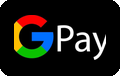
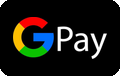
Booking page (test): Visa added, Google Pay mark no longer cropped
Claude-Session: https://claude.ai/code/session_01PDkwSC2D5EtGfg6NzS5EkS

Changed region(s): [[0.1, 0.1842, 0.45, 0.7895], [0.475, 0.3158, 0.9, 0.7895]]

diff --git a/slots/index.html b/slots/index.html
@@ -422,7 +422,7 @@ h3.nm, .nm { color: var(--rc); }
         <a class="go wide off" id="hPay" href="#" aria-disabled="true">PAY</a>
         <p class="hint" id="tNeed">Tick both boxes to pay.</p>
         <button class="x wide" id="hChange" type="button">CHANGE BOOKING</button>
-        <div class="paylogos" aria-label="Pay with Mastercard, PayNow, Apple Pay or Google Pay"><img src="img/pay-mastercard.png" alt="Mastercard" width="40" height="25"><img src="img/pay-paynow.png" alt="PayNow" width="40" height="25"><img src="img/pay-applepay.png" alt="Apple Pay" width="40" height="25"><img src="img/pay-gpay.png" alt="Google Pay" width="40" height="25"></div><p class="hint paywith">Slot released if you go back or time runs out.</p>
+        <div class="paylogos" aria-label="Pay with Visa, Mastercard, PayNow, Apple Pay or Google Pay"><img src="img/pay-visa.png" alt="Visa" width="40" height="25"><img src="img/pay-mastercard.png" alt="Mastercard" width="40" height="25"><img src="img/pay-paynow.png" alt="PayNow" width="40" height="25"><img src="img/pay-applepay.png" alt="Apple Pay" width="40" height="25"><img src="img/pay-gpay.png?v=2" alt="Google Pay" width="40" height="25"></div><p class="hint paywith">Slot released if you go back or time runs out.</p>
       </div>
     </div>
   </div>
